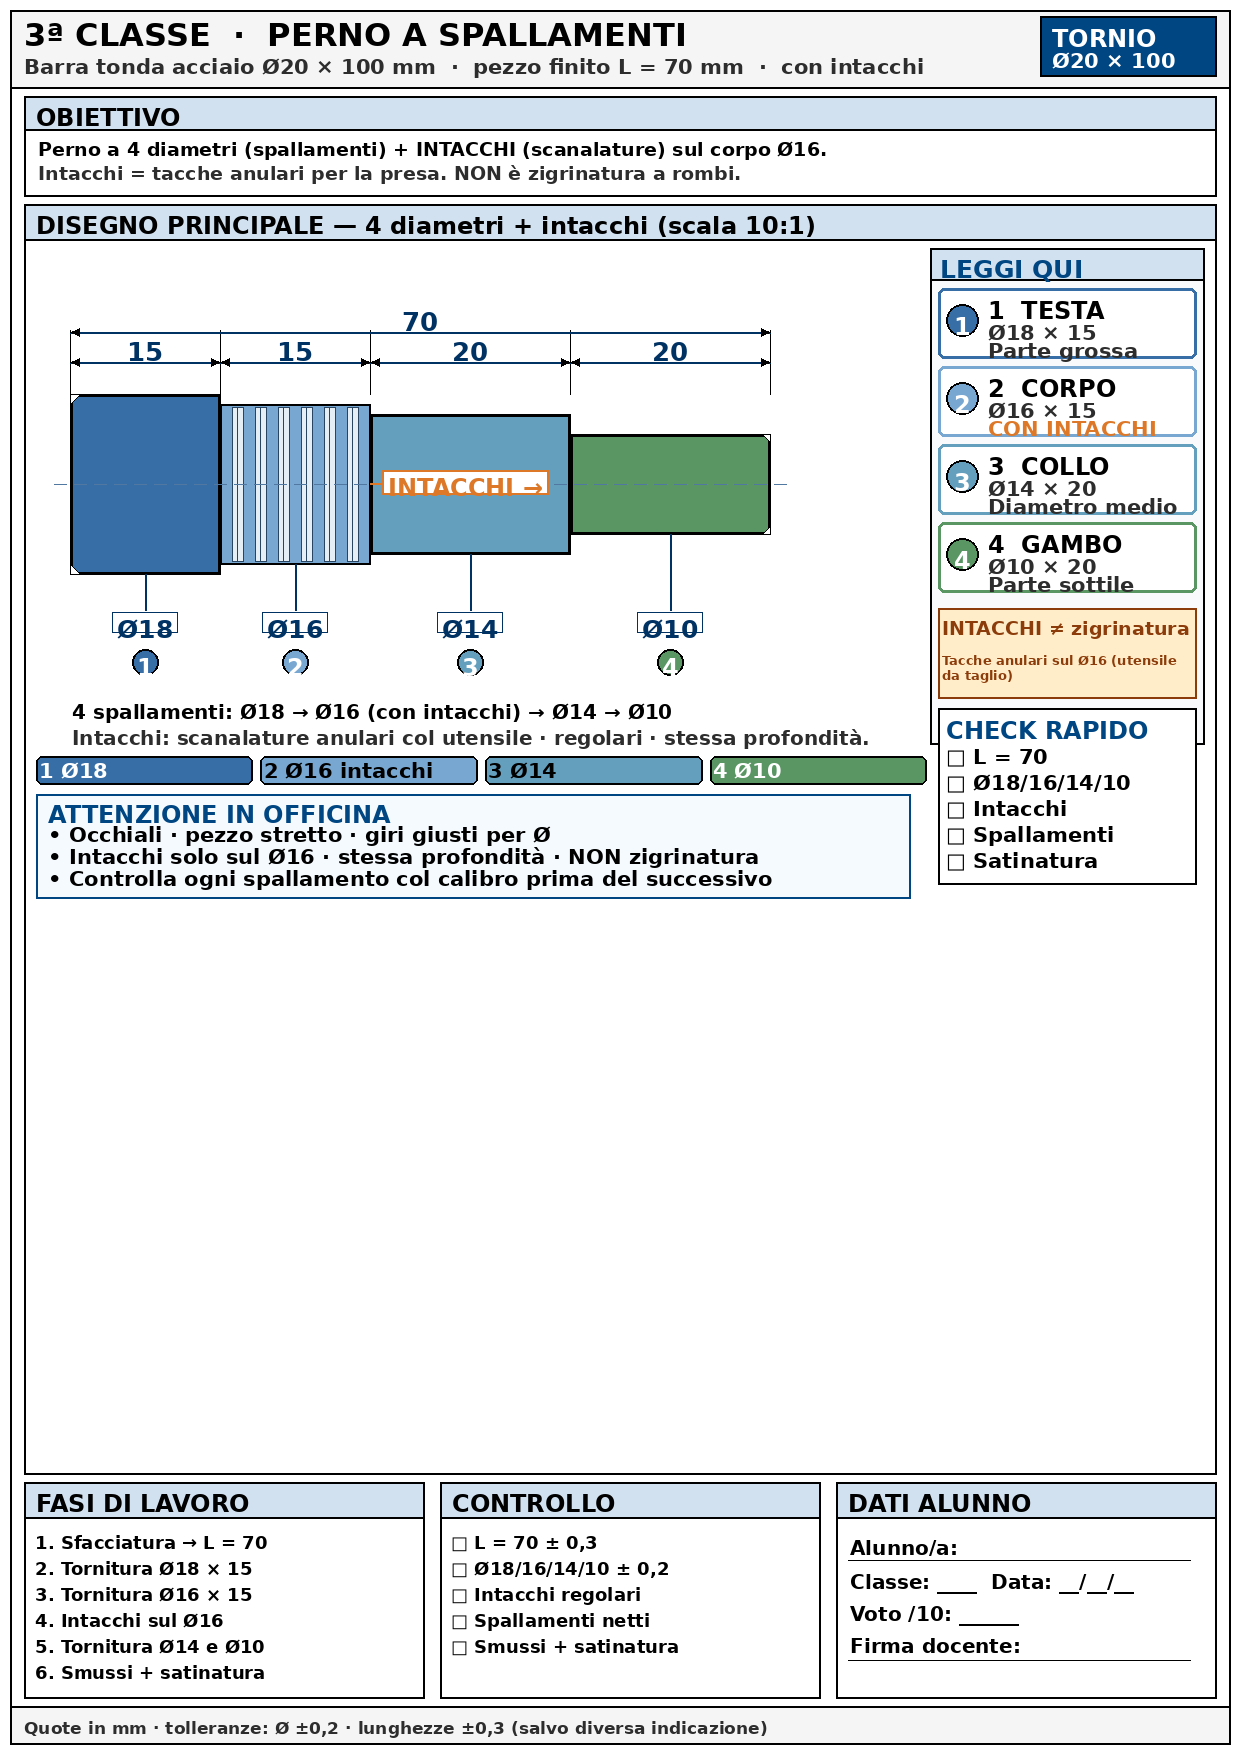
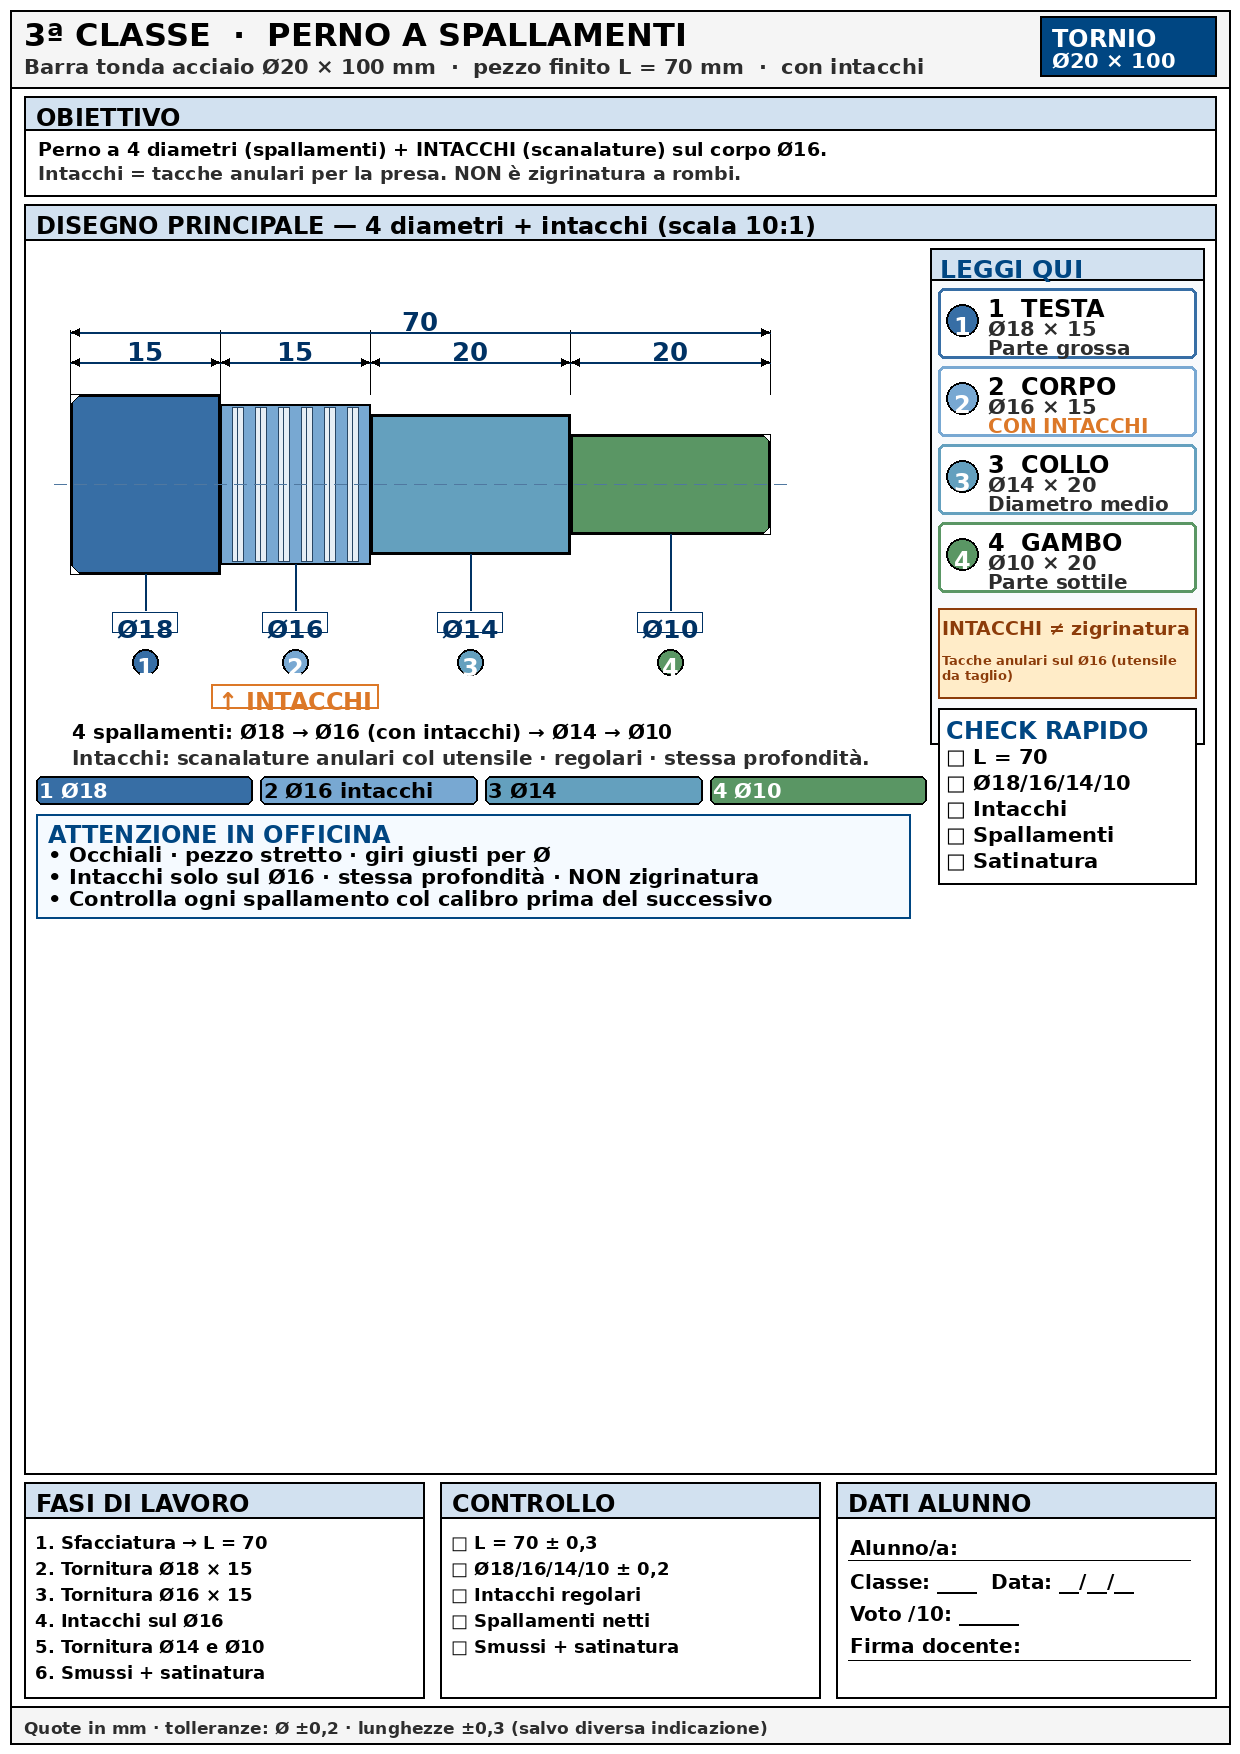
Fissa etichetta INTACCHI sotto Ø16; niente overflow nei box.

Changed region(s): [[0.0306, 0.3694, 0.7661, 0.5234], [0.7968, 0.1539, 0.95, 0.3387], [0.3065, 0.2463, 0.4597, 0.3079]]

diff --git a/progetti-ferro-gallery/generate_ferro.py b/progetti-ferro-gallery/generate_ferro.py
@@ -707,9 +707,10 @@ def make_3a():
         tw = d.textlength(num, font=F13)
         d.text((info_x1 + 32 - tw / 2, yy + 24), num, fill=WHITE, font=F13)
         tx = info_x1 + 58
-        d.text((tx, yy + 8), f"{num}  {title}", fill=BLACK, font=F13)
-        d.text((tx, yy + 32), line1, fill=GRAY, font=F12)
-        d.text((tx, yy + 50), line2, fill=ORANGE if "INTACCH" in line2 else GRAY, font=F12)
+        d.text((tx, yy + 6), f"{num}  {title}", fill=BLACK, font=F13)
+        d.text((tx, yy + 28), line1, fill=GRAY, font=F12)
+        # testo dentro il box (niente overflow sul bordo)
+        text_in_box(d, tx, yy + 46, info_x2 - 16 - tx, 20, line2, F12, ORANGE if "INTACCH" in line2 else GRAY, pad=0)
 
     warn_y = draw_top + 84 + 4 * 78 + 8
     d.rectangle([info_x1 + 8, warn_y, info_x2 - 8, warn_y + 90], fill=WARN_BG, outline=WARN, width=2)
@@ -779,17 +780,15 @@ def make_3a():
     for i, s in enumerate(xs):
         badge(s[0] + s[1] / 2, badge_y, str(i + 1), s[5])
 
-    # etichetta INTACCHI a destra del corpo Ø16 (niente overlap coi badge)
+    # etichetta INTACCHI sotto il solo corpo Ø16 (non sopra Ø14)
     sx = xs[1][0] + xs[1][1] / 2
-    int_lab = "INTACCHI →"
+    int_lab = "↑ INTACCHI"
     tw = d.textlength(int_lab, font=F13)
-    ix = xs[1][0] + xs[1][1] + 12
-    iy = mid - 14
-    d.rectangle([ix, iy, ix + tw + 12, iy + 24], fill=WHITE, outline=ORANGE, width=2)
-    d.text((ix + 6, iy + 3), int_lab, fill=ORANGE, font=F13)
-    d.line([ix, mid, xs[1][0] + xs[1][1], mid], fill=ORANGE, width=2)
+    iy = badge_y + 22
+    d.rectangle([sx - tw / 2 - 6, iy, sx + tw / 2 + 6, iy + 24], fill=WHITE, outline=ORANGE, width=2)
+    d.text((sx - tw / 2, iy + 3), int_lab, fill=ORANGE, font=F13)
 
-    note_y = badge_y + 36
+    note_y = iy + 34
     text_in_box(d, ox, note_y, info_x1 - ox - 20, 24, "4 spallamenti: Ø18 → Ø16 (con intacchi) → Ø14 → Ø10", F13, BLACK, pad=2)
     text_in_box(d, ox, note_y + 26, info_x1 - ox - 20, 24, "Intacchi: scanalature anulari col utensile · regolari · stessa profondità.", F12, GRAY, pad=2)
 
